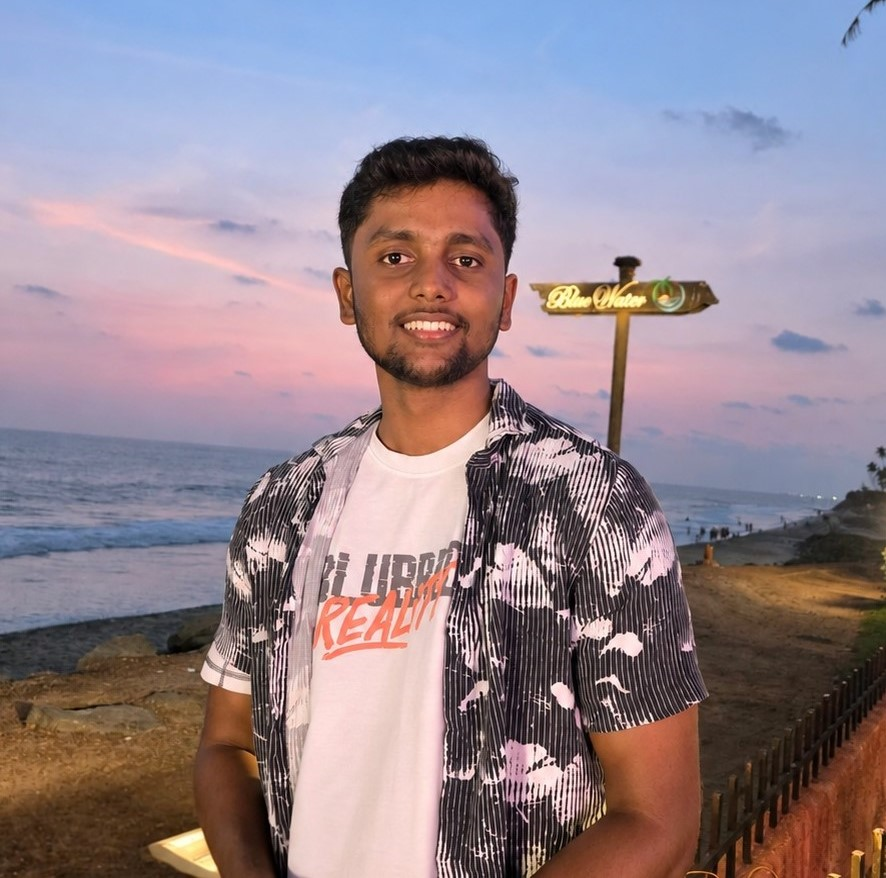
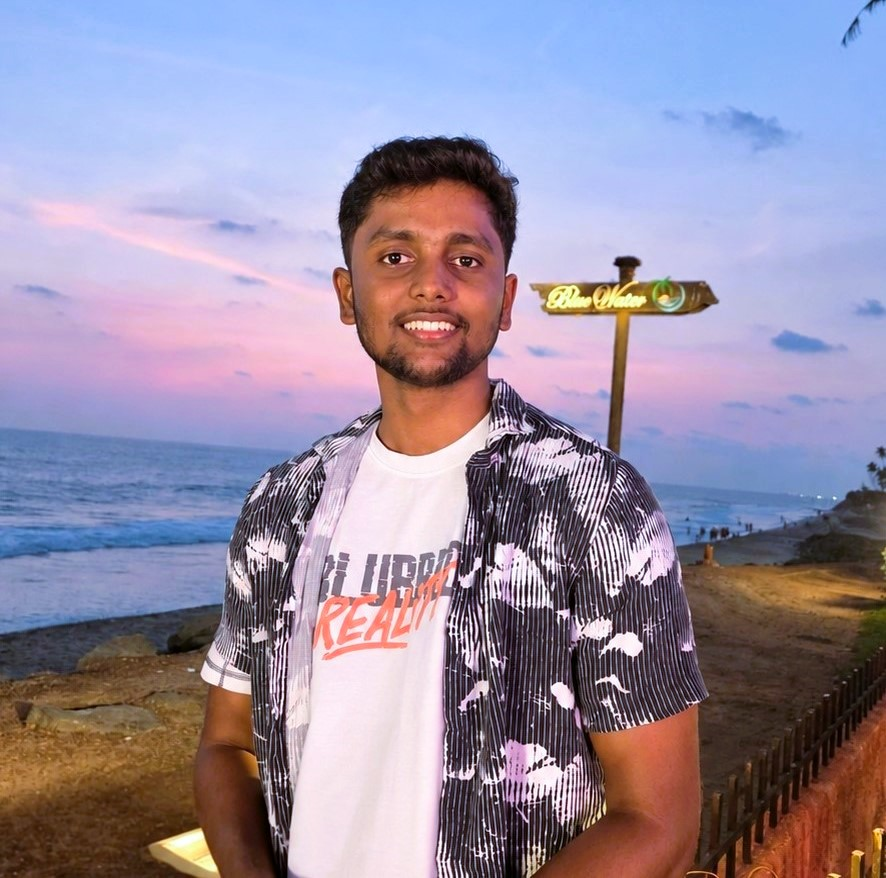
feat: add About component and beach sunset image asset

diff --git a/src/components/About.tsx b/src/components/About.tsx
@@ -78,14 +78,19 @@ export default function About() {
               </div>
 
               {/* Framed Image Card: z-10 on top of the striped decoration */}
-              <div className="relative z-10 w-full h-full rounded-3xl overflow-hidden border border-black/10 dark:border-white/10 shadow-2xl bg-neutral-100 dark:bg-neutral-900">
+              <div className="relative z-10 w-full h-full rounded-3xl overflow-hidden border border-black/10 dark:border-white/10 shadow-2xl bg-neutral-100 dark:bg-neutral-900 group">
                 <Image
                   src={beachSunset}
                   alt="Mahesh P at Blue Water, Kerala"
                   fill
-                  className="object-cover object-center filter brightness-95 contrast-105"
+                  className="object-cover object-center transition-transform duration-700 ease-out group-hover:scale-[1.02]"
+                  style={{
+                    filter: 'saturate(0.80) contrast(0.96) brightness(0.96)',
+                  }}
                   sizes="(max-width: 768px) 100vw, 340px"
                 />
+                {/* Subtle soft vignette overlay to blend harsh smartphone HDR highlights */}
+                <div className="absolute inset-0 bg-linear-to-t from-black/20 via-transparent to-black/10 pointer-events-none z-10" />
               </div>
 
             </div>
